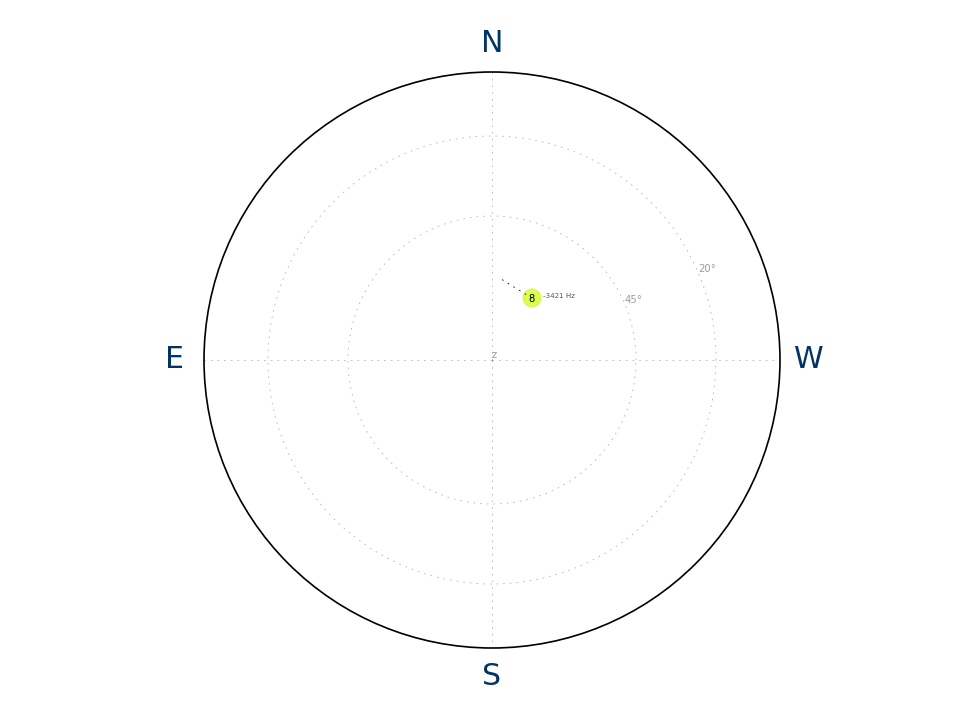
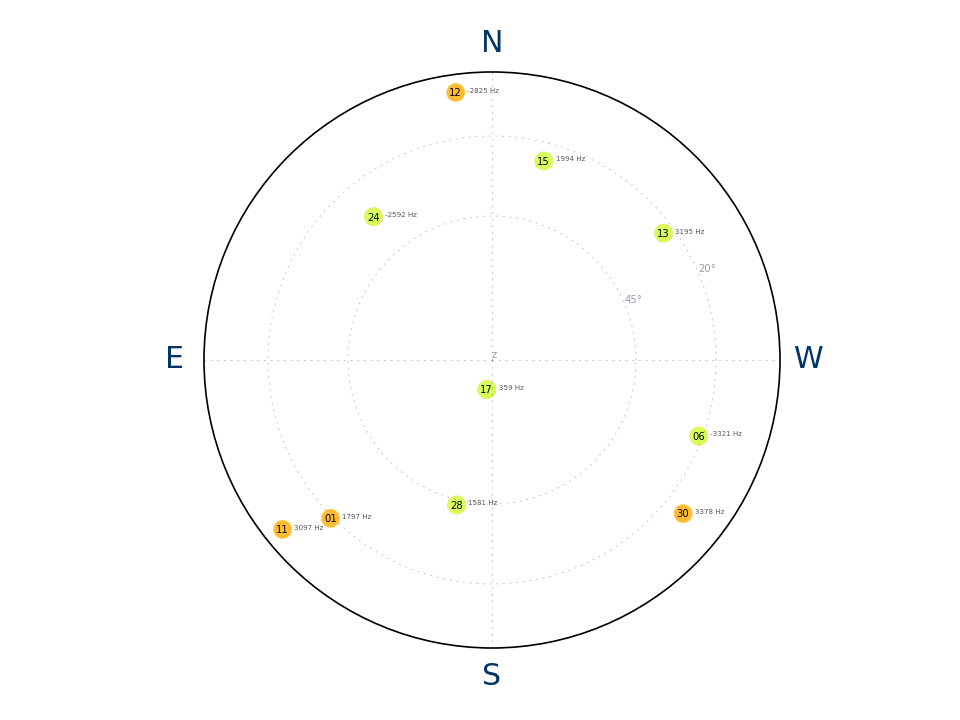
real GPS data now

diff --git a/util/constellation.py b/util/constellation.py
@@ -2,7 +2,9 @@
 # -*- coding: utf-8 -*-
 import matplotlib.pyplot as plt
 import matplotlib as mpl
-from math import pi
+from math import pi, radians, degrees
+import ephem
+import datetime
 
 mpl.rcParams['lines.linewidth'] = 0.5
 mpl.rcParams['lines.linestyle'] = ':'
@@ -20,17 +22,26 @@ mpl.rcParams['patch.edgecolor'] = '#ffcc33'
 mpl.rcParams['font.size'] = 4.3
 
 
-sats = {'az': [], 'alt': []}
-def sat(SV, ax, sats):
+print "#SV, Doppler (Hz), Alt (deg), Az (deg)"
 
-    alt = 23
-    az = 1
-    dop = -3421
+sats = {'az': [], 'alt': [], 'color': []}
+def sat(ax, SV, az, alt, dop, sats):
+    dop = (dop/2.99792e8)*1.57542e9
+
+    print ', '.join([SV, "%5.0f"%dop, "%4.1f" % degrees(alt), "%5.1f" % degrees(az)])
+
+    az = az + pi
+    alt = degrees((pi/2.0) - alt)
 
     sats['az'].append(az)
     sats['alt'].append(alt)
+    if alt > 70:
+        sats['color'].append('#ffaa00')
+    else:
+        sats['color'].append('#ccff33')
 
-    plt.plot([az, az+0.5], [alt, alt+3], c="black")
+
+    #plt.plot([az, az+0.5], [alt, alt+3], c="black")
     ax.annotate(SV, xy=(az, alt),
         xytext=(0, -0.5), textcoords='offset points', horizontalalignment='center', verticalalignment='center',
         fontsize=6
@@ -45,11 +56,30 @@ def sat(SV, ax, sats):
 # make figure
 fig, ax = plt.subplots(1, 1, subplot_kw=dict(polar=True))
 
-# append sats
-sats = sat('8', ax, sats)
+
+location = ephem.Observer()
+location.lat = "45.0"
+location.long = "-122.0"
+location.elevation = 50
+now = datetime.datetime.utcnow()
+location.date = now
+
+with open('gps-ops.txt', 'r') as datafile:
+
+    while True:
+        try:
+            gps = ephem.readtle(datafile.readline(), datafile.readline(), datafile.readline())
+        except:
+            break
+
+        gps.compute(location)
+        if (gps.alt*1) > radians(5):
+            name = gps.name.split('PRN')[1].replace(')', '').strip()
+            
+            sats = sat(ax, name, gps.az*1, gps.alt*1, gps.range_velocity, sats)
 
 # plot sat dots
-plt.scatter(sats['az'], sats['alt'], s=120, c='#ccff22', alpha=0.8)
+plt.scatter(sats['az'], sats['alt'], s=120, c=sats['color'], alpha=0.8)
 
 # ticks
 plt.xticks([0, pi/2.0, pi, 3*pi/2.0], ['W','N','E','S'])
@@ -57,5 +87,4 @@ plt.yticks([0, 45, 70], ['z',u"45°",u"20°"])
 ax.set_ylim([0, 90])
 
 # save
-plt.savefig('test.png', dpi=120)
-plt.show()
+plt.savefig('constellation.png', dpi=120)
